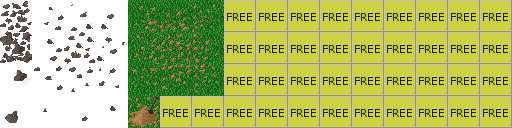
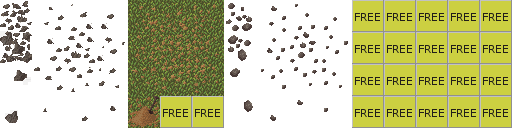
Added Micksha's tilesets for the graveyard

diff --git a/license.md b/license.md
@@ -1125,8 +1125,8 @@ File | Artists | Licenses
 `graphics/tiles/wood_lab.png` | Fate, Varuna, Enchilado, Wushin | GPLv2
 `graphics/tiles/wood_lab_small.png` | Fate, Varuna, Enchilado, Wushin | GPLv2
 `graphics/tiles/woodland_graveyard_crypt.png` | :grey_question:, Spit23 | GPLv2
-`graphics/tiles/woodland_graveyard_ground.png` | :grey_question:, Crush | GPLv2
-`graphics/tiles/woodland_graveyard_x3.png` | :grey_question:, Black Don, Crush | GPLv2
+`graphics/tiles/woodland_graveyard_ground.png` | Micksha, :grey_question:, Crush | GPLv2
+`graphics/tiles/woodland_graveyard_x3.png` | Micksha, :grey_question:, Black Don, Crush | GPLv2
 `graphics/tiles/woodland_graveyard_x4.png` | :grey_question:, Crush, Spit23 | GPLv2
 `graphics/tiles/woodland_ground.png` | :grey_question:, Crush, Wombat, enchilado | GPLv2
 `graphics/tiles/woodland_indoor_x2.png` | :grey_question:, Crush, tux9th | GPLv2
